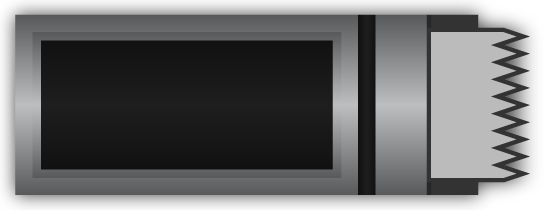
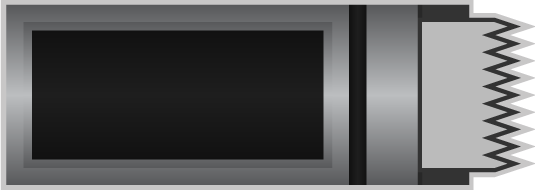
Updated title screen clipper and position

Changed region(s): [[0.0, 0.0, 1.0, 1.0]]

diff --git a/src/TitleScreen.js b/src/TitleScreen.js
@@ -70,10 +70,10 @@ exports = Class(ImageView, function (supr) {
 
         this.giantClipper = new ImageView({
             superview: this,
-            x: -545,
-            y: 133,
-            width: 545,
-            height: 210,
+            x: -535,
+            y: 123,
+            width:  535,
+            height: 190,
             image: 'resources/images/clipper-title.png'
         });
 
